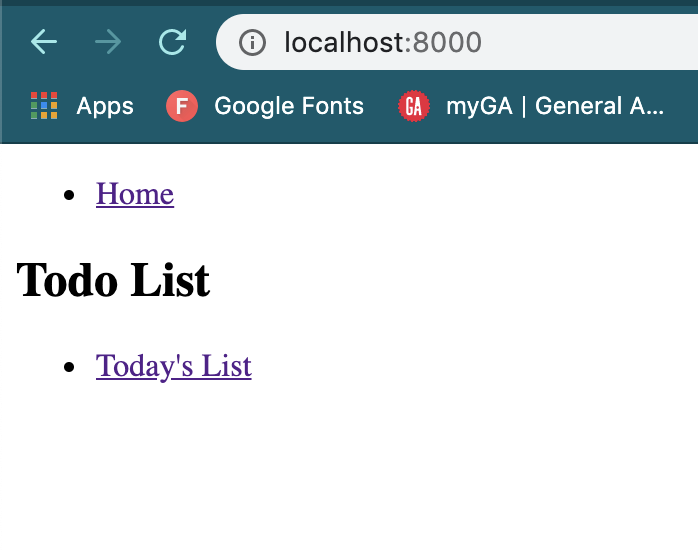
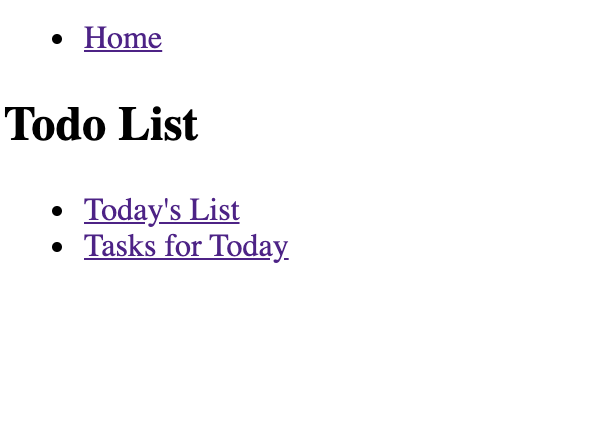
corrected issues with application and completed read section

Changed region(s): [[0.0, 0.0, 1.0, 0.393], [0.0298, 0.4535, 0.4768, 0.6047], [0.0894, 0.6349, 0.3576, 0.6953]]

diff --git a/index.html b/index.html
@@ -116,8 +116,8 @@
                 confirmation in the terminal after each command is executed. As always, you can change the values of
                 the project to match your application and desired user name and password.
             </p>
-            <code> CREATE DATABASE honeydo</code><br><code> CREATE USER honeyuser WITH PASSWORD 'honey'; </code>
-            <br> <code> GRANT ALL PRIVILEGES ON DATABASE honeydo TO honeyuser </code> <br> <code> \q </code>
+            <code> CREATE DATABASE honeydo;</code><br><code> CREATE USER honeyuser WITH PASSWORD 'honey'; </code>
+            <br> <code> GRANT ALL PRIVILEGES ON DATABASE honeydo TO honeyuser; </code> <br> <code> \q </code>
             <p> Now that the database is created, return to your text editor. Inside the project directory you need
                 to find (around line 76) and enter the database information into the <code>settings.py</code> file as
                 follows:
@@ -398,12 +398,23 @@ path('item/&ltint:pk>', views.item_detail, name= 'item_detail'),</pre></code>
 {% extends 'base.html' %}
 
 {% block content %}
-&lth2>{{item.name}}&lt/h2>
+&lth2>{{item.task}}&lt/h2>
 
 {% endblock %}</pre></code>
         <p> Having a link to each item only to display the name of the item isn't terribly useful, for this
             application, but when there are more fields tied to the foreign key this step is essential. Have a look
             at another Django application, <a href="https://lessonkeeper.herokuapp.com/">lessonKeeper</a>, I created for a more complicated example of this .</p>
+    <p> This still doesn't link the todo and items, but if you return to the <code>todo_detail.html</code> file and
+        enter this new loop after the second 'h4' tag. </p>
+        <code><pre>
+&ltul>
+        {% for item in todo.items.all %}
+        &ltli>{{ item.task }}
+        &ltbr/> &lt/li>
+        {% endfor %}
+&lt/ul></pre></code>
+        <p>Refresh the browser and the page will now display a bullet list of the tasks!  </p>
+        <img src="./images/todo_with_tasks.png" alt="sample list of tasks"/>
     </section>
     <section class="main-section" id="adding_forms">
         <header class="heading">Adding Forms</header>
